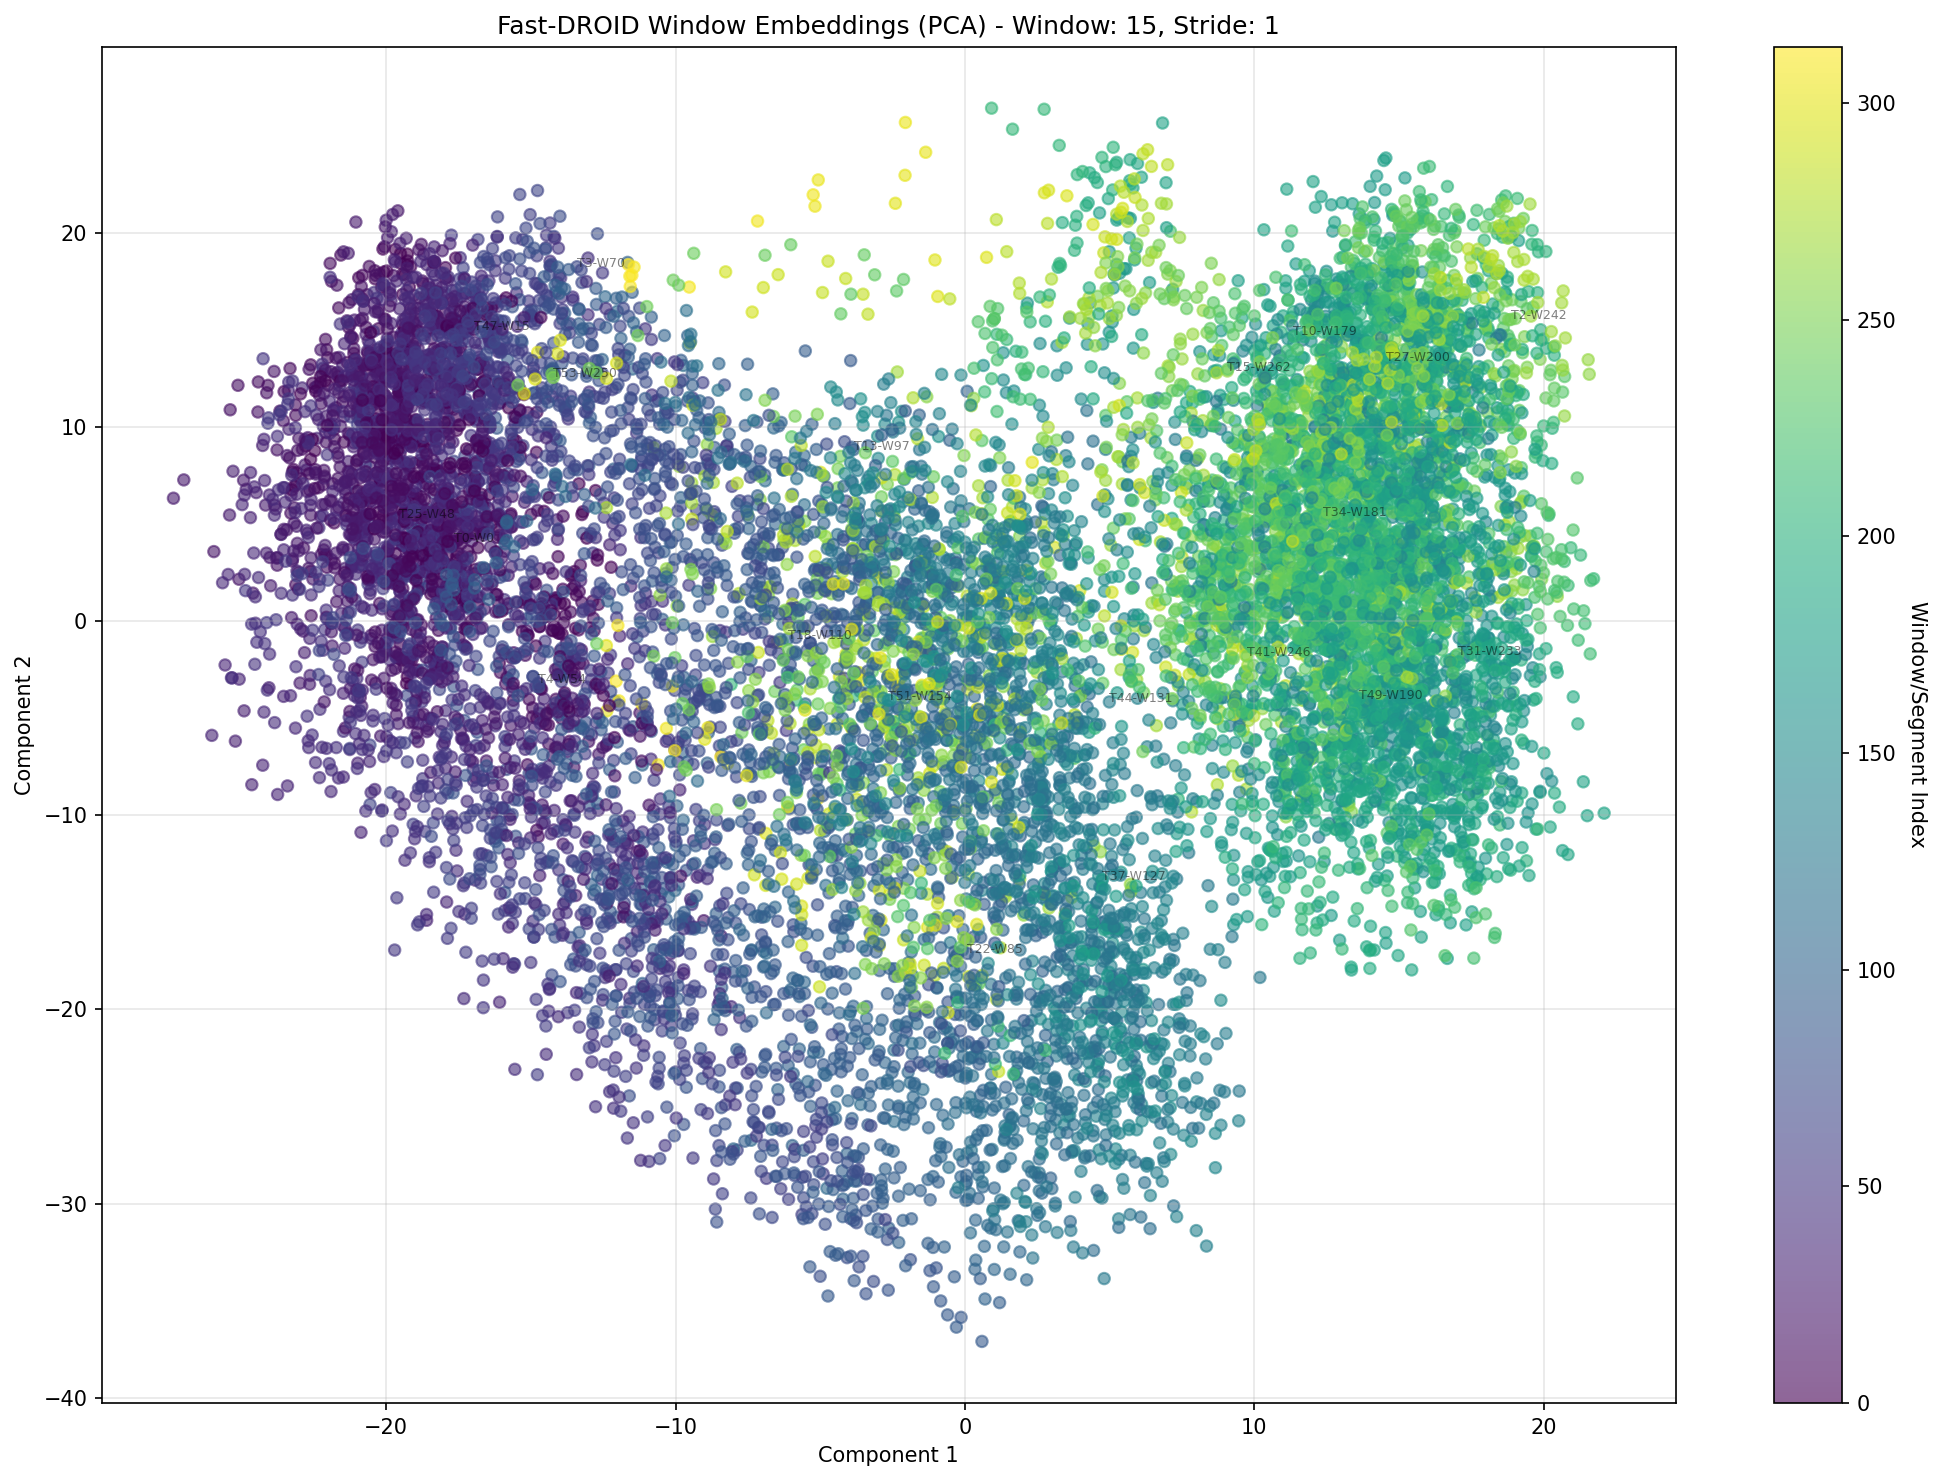
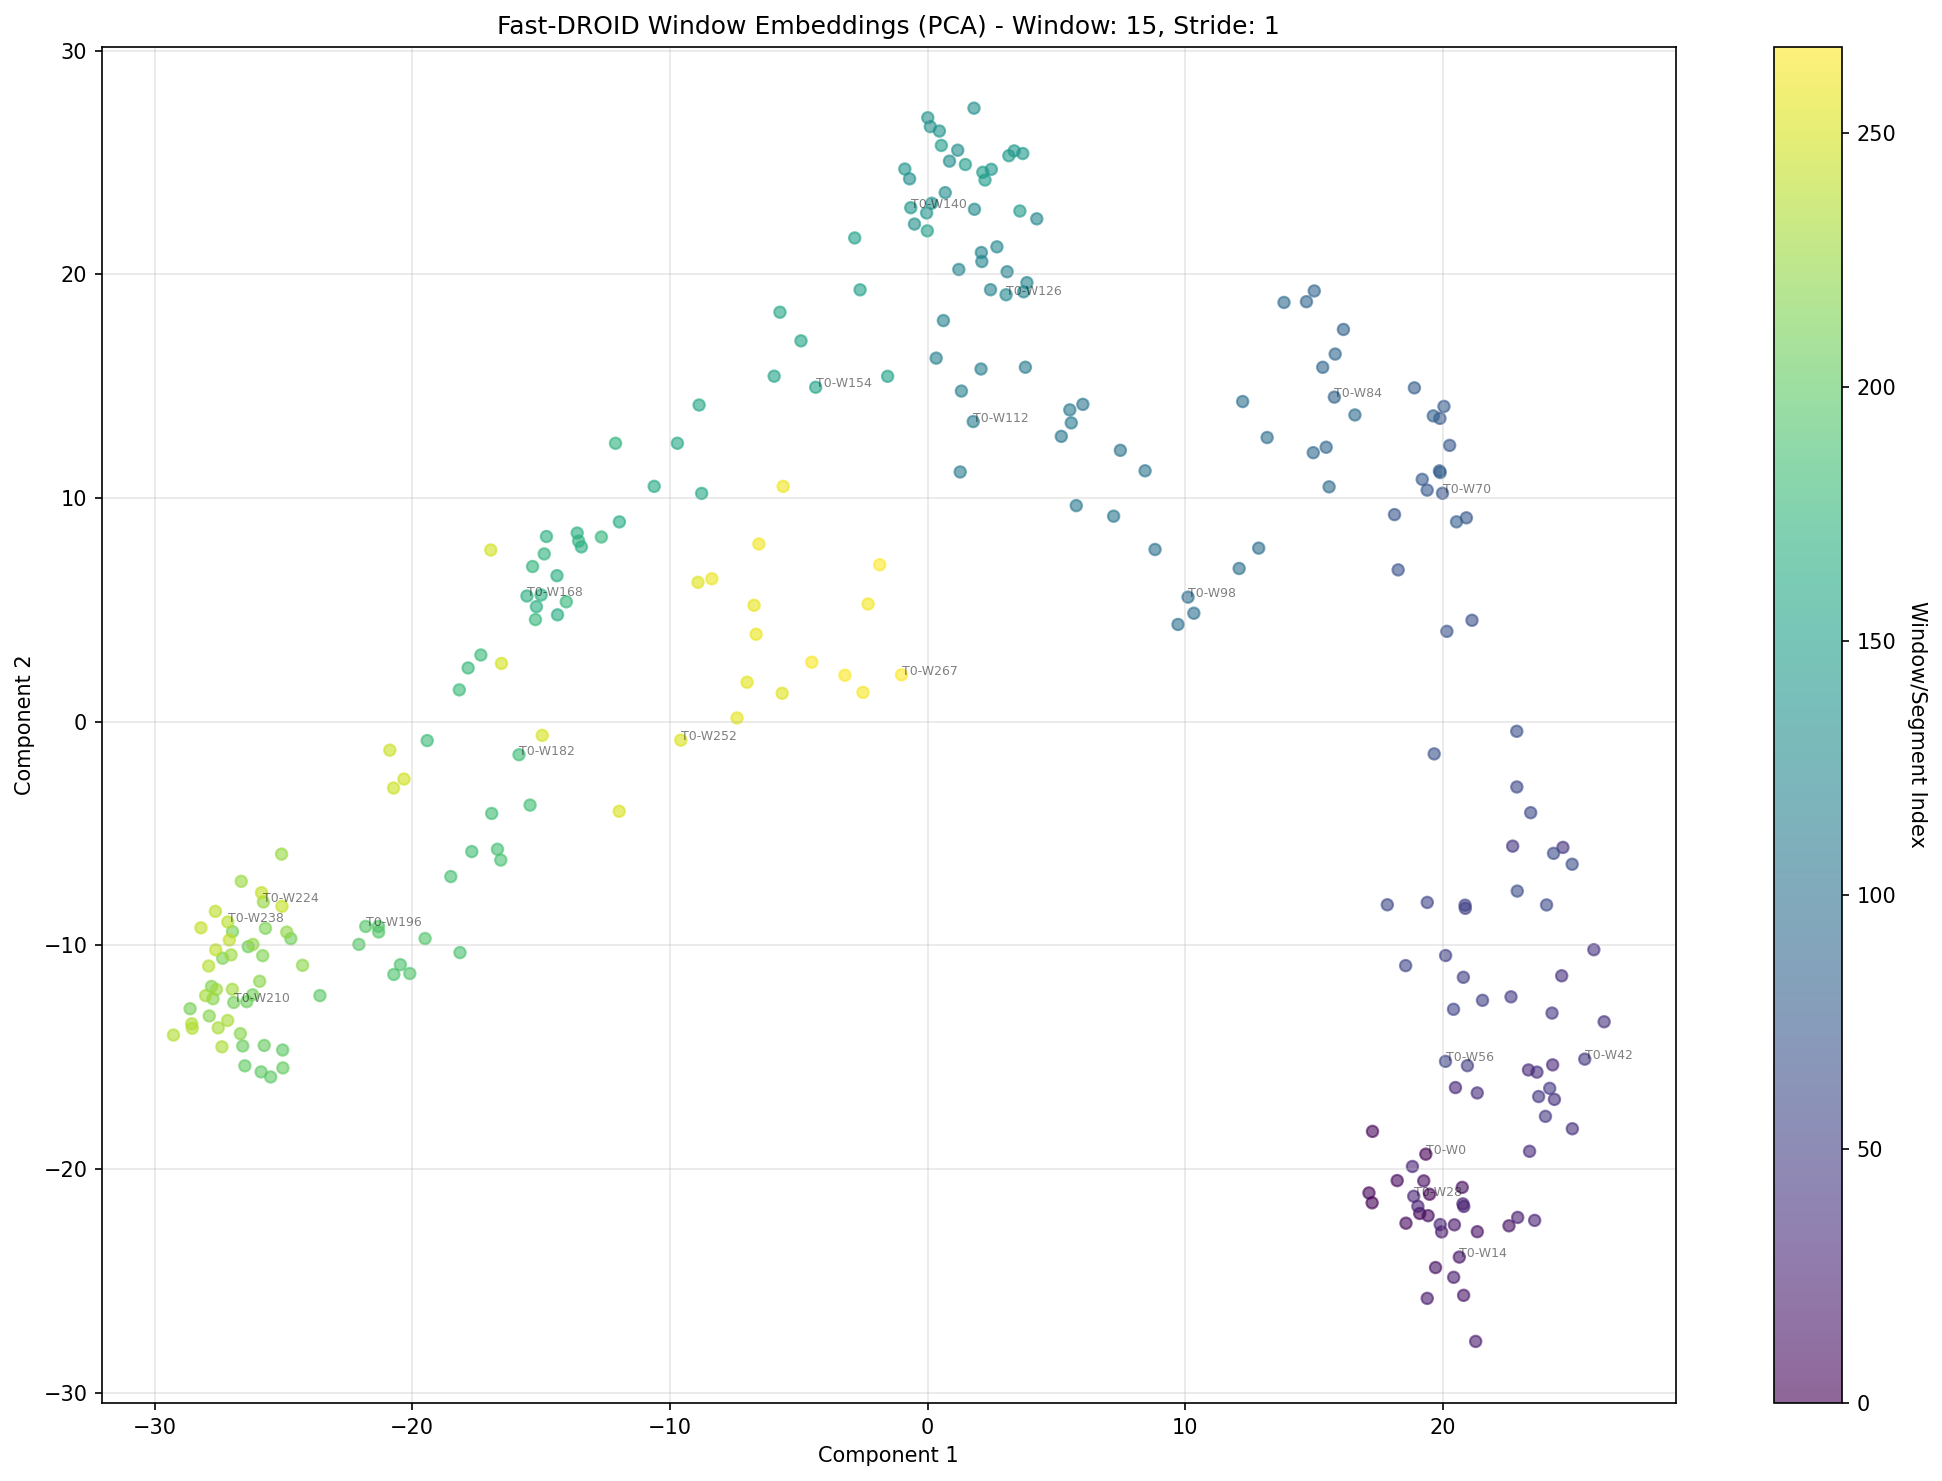
k

diff --git a/plot_fast_droid_embeddings.py b/plot_fast_droid_embeddings.py
@@ -581,7 +581,7 @@ def main(window_size=20, stride=10, use_joints=False):
     tokenizer = load_fast_droid_tokenizer()
     
     # Find all HDF5 files
-    h5_files = sorted(glob.glob(f"{dataset_path}/trajectory_*/joints.h5"))[:50]
+    h5_files = sorted(glob.glob(f"{dataset_path}/trajectory_*/joints.h5"))[:1]
     print(f"Found {len(h5_files)} HDF5 files")
     
     # Process trajectories in parallel using Ray
